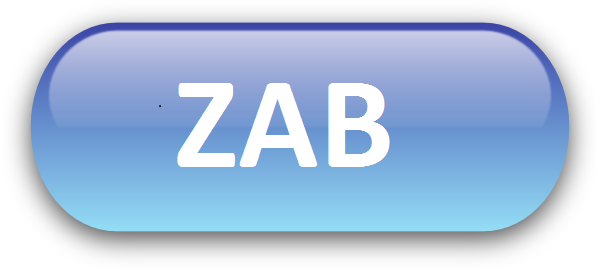
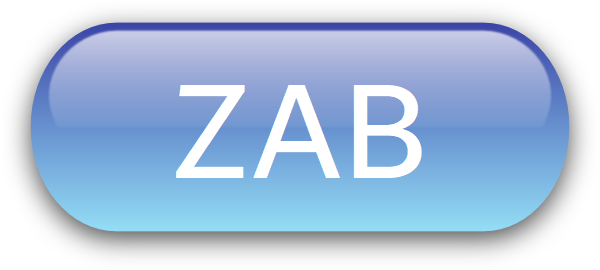
Cambio de letra de los botones, y cambio en las posiciones absolutas de la Encuesta

Changed region(s): [[0.27, 0.2963, 0.72, 0.6815]]

diff --git a/public/Encuesta.htm b/public/Encuesta.htm
@@ -6,29 +6,29 @@
     <body>
 
             
-            <DIV STYLE="position:absolute; top:40px; left:268px; visibility:visible z-index:1">
+            <DIV STYLE="position:relative; top:105px; left:300px; visibility:visible z-index:1">
                 <b><h1><font face="arial" color="black"><H6>QUÉ PALABRA REPRESENTA ESTE OBJETO?:</H6> </font></h1></b>
                 
             </DIV>
             
             
-            <DIV STYLE="position:absolute; top:110px; left:360px; visibility:visible z-index:1"> <!--imagen de la encuesta-->
+            <DIV STYLE="position:relative; top:60px; left:360px; visibility:visible z-index:1"> <!--imagen de la encuesta-->
                 <img src="imagen_encuesta.png" width="300" height="450">
             </DIV>
         
         
-            <DIV STYLE="position:absolute; top:190px; left:449px; visibility:visible z-index:1"> <!--imagen cualquiera-->
+            <DIV STYLE="position:relative; top:-300px; left:448px; visibility:visible z-index:1"> <!--imagen cualquiera-->
                 <img id= "imgvar" src="square.png" width="140" height="140">
             </DIV>
             
         
         <!--checksbox-->
-            <DIV STYLE= "position:absolute; top:400px; left:365px; visibility:visible z-index:1">
+            <DIV STYLE= "position:relative; top:-230px; left:365px; visibility:visible z-index:1">
                  <form action="/action_page.php">
                 <input type="checkbox" name="ZAP" value="ZAP"> representa "ZAP"<br>
                 <input type="checkbox" name="XOL" value="XOL"> representa "XOL"<br>
                 <input type="checkbox" name="DUP" value="DUP"> representa "DUP"<br>
-               <DIV STYLE= "position:absolute; top:87px; left:0px; visibility:visible z-index:1">
+               <DIV STYLE= "position:relative; top:18px; left:0px; visibility:visible z-index:1">
                      <input type="submit" value="Continuar">
                      </DIV>
             </form>
